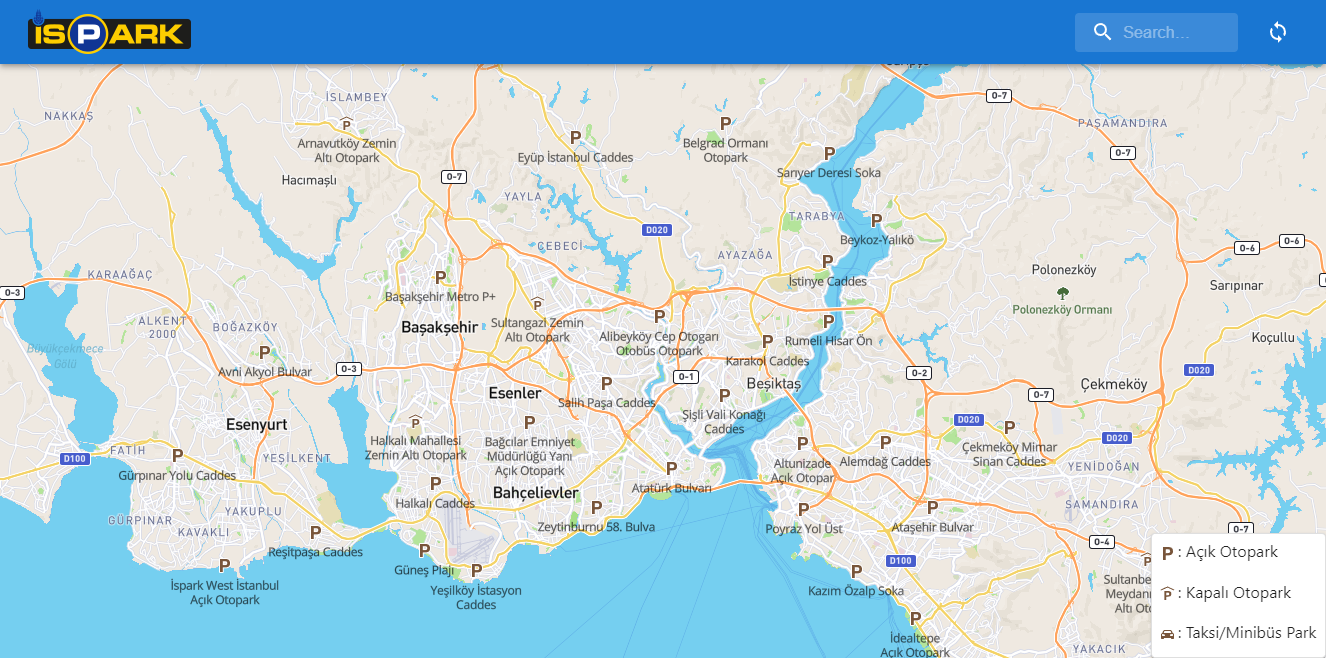
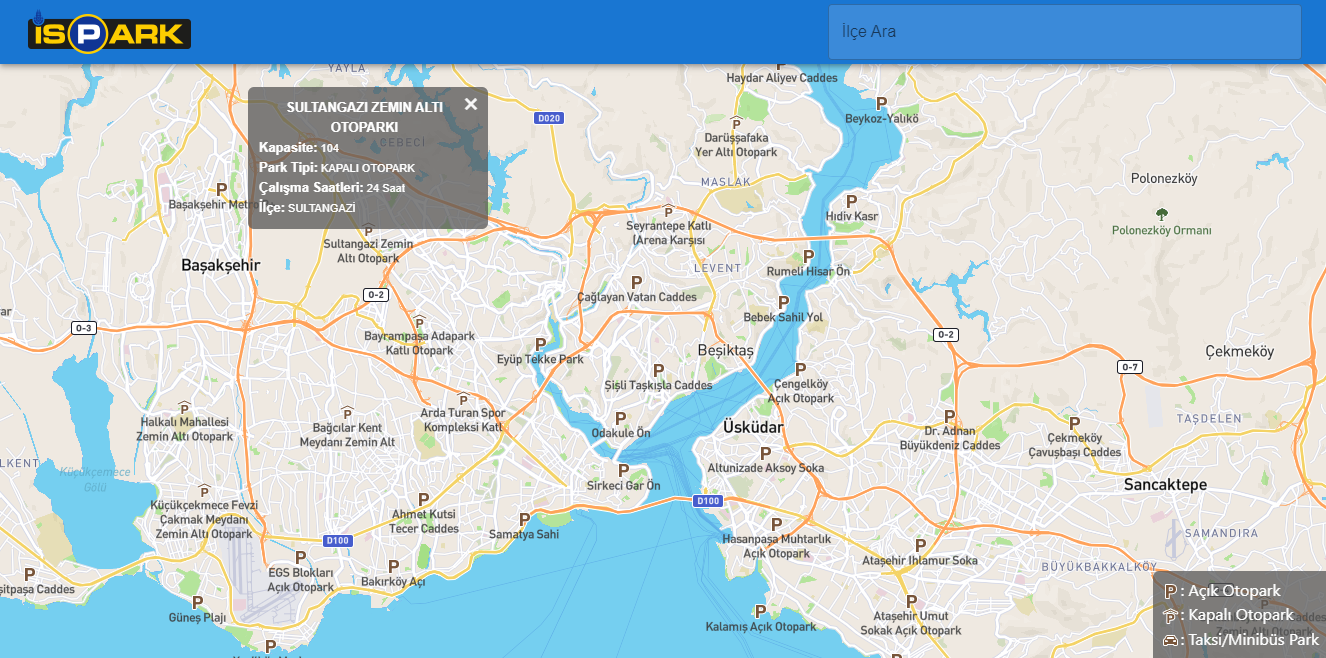
Edit Navbar

diff --git a/src/components/Navi/Navbar.js b/src/components/Navi/Navbar.js
@@ -4,9 +4,7 @@ import logo from "../../images/logo.png";
 import AppBar from "@mui/material/AppBar";
 import Box from "@mui/material/Box";
 import Toolbar from "@mui/material/Toolbar";
-import IconButton from "@mui/material/IconButton";
 import Typography from "@mui/material/Typography";
-import LoopIcon from "@mui/icons-material/Loop";
 import { SetCounty } from "./../../context/actions";
 import { useDispatch, useSelector } from "react-redux";
 import { Autocomplete, TextField } from "@mui/material";
@@ -18,13 +16,8 @@ const Search = styled("div")(({ theme }) => ({
   "&:hover": {
     backgroundColor: alpha(theme.palette.common.white, 0.25),
   },
-  marginLeft: 0,
-  width: "25ch",
+  width: "55ch",
 }));
-
-const refreshPage = () => {
-  window.location.reload();
-};
 
 export default function SearchAppBar() {
   const { counties } = useSelector((state) => state);
@@ -54,15 +47,6 @@ export default function SearchAppBar() {
               )}
             />
           </Search>
-          <IconButton
-            size="large"
-            edge="start"
-            color="inherit"
-            aria-label="open drawer"
-            sx={{ ml: 2 }}
-          >
-            <LoopIcon onClick={refreshPage} />
-          </IconButton>
         </Toolbar>
       </AppBar>
     </Box>

diff --git a/src/components/Map/Info.js b/src/components/Map/Info.js
@@ -1,12 +1,10 @@
 import * as React from "react";
-import { Box, Card } from "@mui/material";
 import "./Info.scss";
 
-export default function OutlinedCard() {
+export default function Info() {
   return (
-    <Box>
-      <Card className="card">
-        <p>
+      <div className="info-card">
+        <div>
           <svg
             xmlns="http://www.w3.org/2000/svg"
             id="parking"
@@ -31,8 +29,8 @@ export default function OutlinedCard() {
             </g>
           </svg>
           : Açık Otopark
-        </p>
-        <p>
+        </div>
+        <div>
           <svg
             xmlns="http://www.w3.org/2000/svg"
             id="parking-garage"
@@ -57,8 +55,8 @@ export default function OutlinedCard() {
             </g>
           </svg>
           : Kapalı Otopark
-        </p>
-        <p>
+        </div>
+        <div>
           <svg
             xmlns="http://www.w3.org/2000/svg"
             id="car"
@@ -83,8 +81,7 @@ export default function OutlinedCard() {
             </g>
           </svg>
           : Taksi/Minibüs Park
-        </p>
-      </Card>
-    </Box>
+        </div>
+      </div>
   );
 }

diff --git a/src/components/Map/Info.scss b/src/components/Map/Info.scss
@@ -1,9 +1,10 @@
-.card{
+.info-card{
     position: fixed !important;
-    width: 175px;
-    height: 125px;
+    background-color: #555555bd;
     right: 0px;
     bottom: 0px;
-    padding: 5px;
+    padding: 7px;
     cursor: default;
+    color: white;
+    border-radius: 6px 0 0 0;
 }

diff --git a/src/components/Map/Map.js b/src/components/Map/Map.js
@@ -1,6 +1,5 @@
 import React, { useRef, useEffect, useState } from "react";
 import { useSelector } from "react-redux";
-
 import mapboxgl from "mapbox-gl"; // eslint-disable-line import/no-webpack-loader-syntax
 import "./Map.scss";
 

diff --git a/README.md b/README.md
@@ -3,9 +3,6 @@
 
 # ISPARK MAP
 
-It is a shopping site prepared using React.
-
-
 ## Screenshots
 
 ![Screenshot](https://raw.githubusercontent.com/ihsansunman/ispark-map/master/src/images/screenshot.png)
